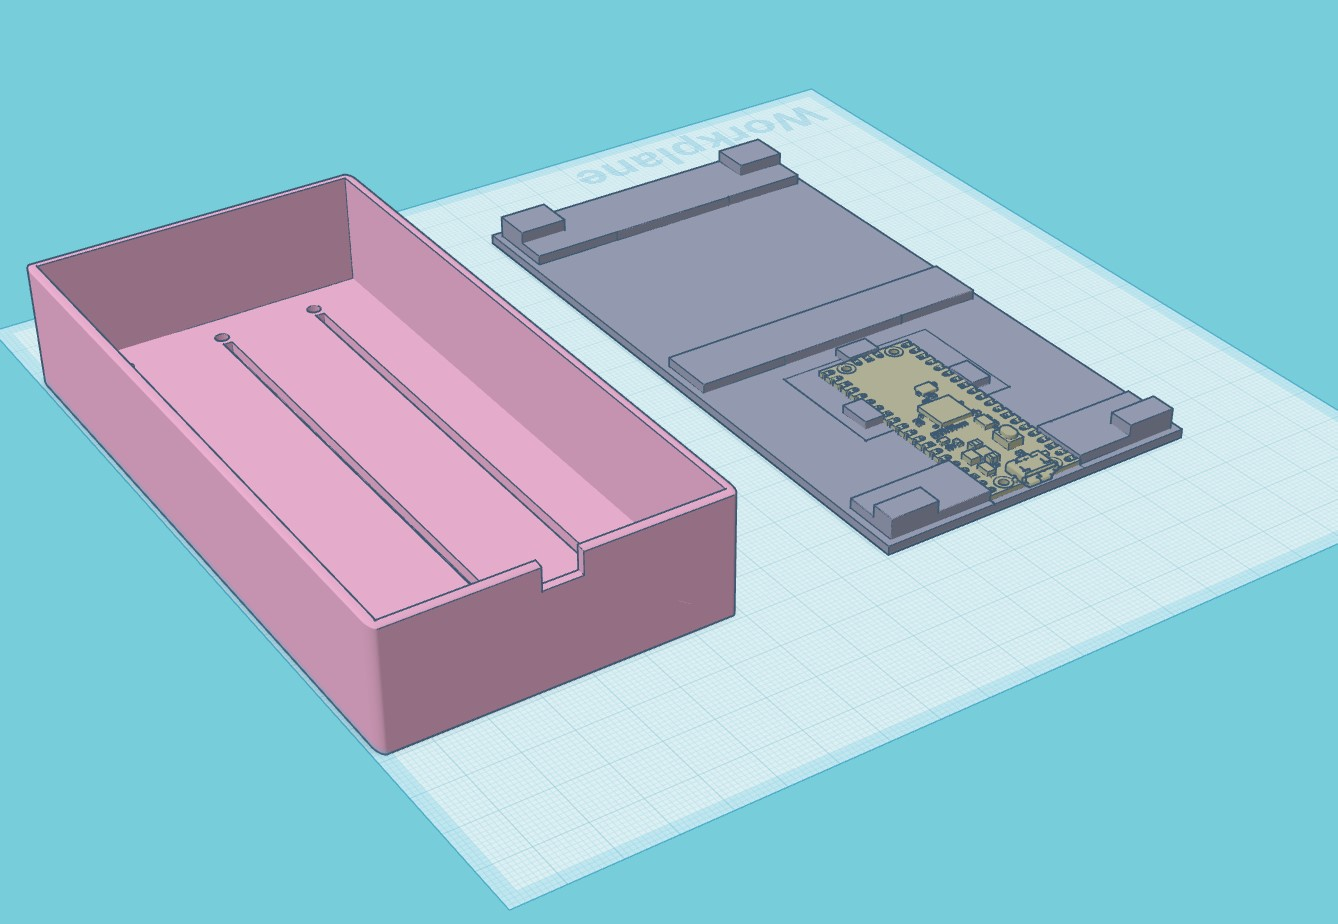
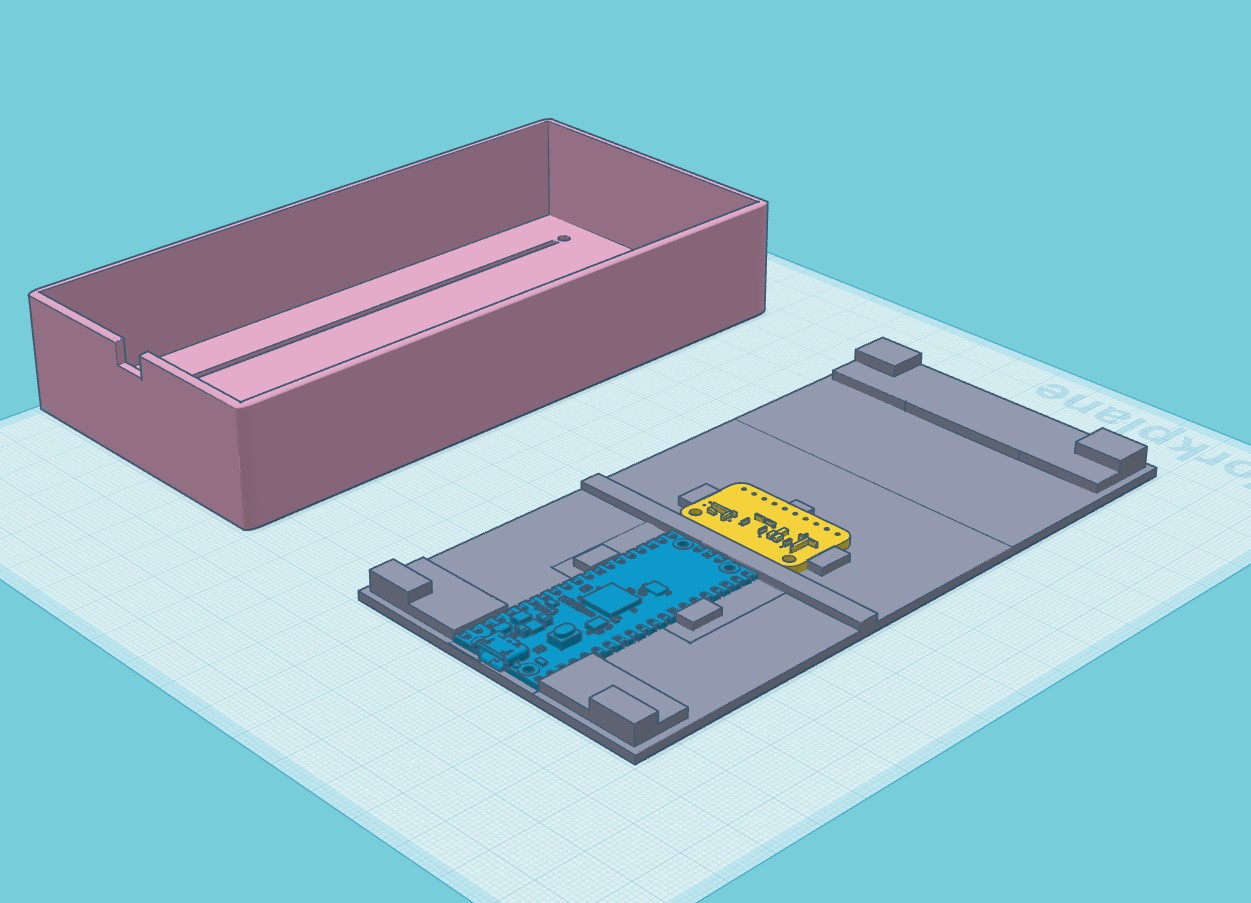
14-bit mode added

diff --git a/code.py b/code.py
@@ -1,56 +1,165 @@
-import board, analogio, usb_midi, adafruit_midi
+import board, analogio, usb_midi, adafruit_midi, busio 
 from time import sleep
-faders = [analogio.AnalogIn(board.A0),analogio.AnalogIn(board.A1),analogio.AnalogIn(board.A2)]
-
 from adafruit_midi.control_change import ControlChange
 
 sleep(1) # avoid a race condition on some systems
 
-## CONFIG SECTION
+def clamp(value, min_val, max_val):
+    return max(min(value, max_val), min_val)
+
+####################
+## CONFIG SECTION ##
+####################
 
 # Each fader can send messages on its own channel. Set them here.
 # (Remember, most DAWs count MIDI channels starting from 1. Here we start from 0.)
 faderMIDIchannels = [0, 0, 0]
-# Configure which CC number each fader should be assigned to
-faderCCnumbers = [14, 15, 33]
+# Configure which CC number each fader should be assigned to. Note: in 14-bit mode, every CC
+# uses the given number + 32 (as per the original MIDI spec, mostly ignored by manufacturers 
+# since it was written). So CC15 in 14-bit mode uses CCs 14 and 47. Spec compliant receivers 
+# should identify these message pairs as a 14-bit control, or at least let you configure the
+# mapping accordingly.
+faderCCnumbers = [14, 15, 30]
 # Selectively enable/disable faders (disabled faders will be ignored)
-faderEnabled = [0, 1, 0]
+faderEnabled = [True, False, False]
 # Set the number of ADC samples from which to get a smoothed value.
 # Greater values may reduce jitter.
-smoothingSamples = 44.0
+smoothingSamples = 24.0
 # Increasing may reduce jitter, but will also reduce responsiveness/accuracy
-newValueThreshold = 1
+newValueThreshold14bit = 5
+# Increasing may reduce jitter, but will also reduce responsiveness/accuracy
+newValueThreshold7bit = 1
+# When true, and if an ADS1115 board is found, CCs will be sent as 14bit MIDI pairs
+enable14bitmode = True
+# If true, and usb_cdc.disable() is commented out in boot.py, debug messages will be printed 
+# to serial monitor
+debugModeEnabled = True
 
-## CONFIG SECTION END
+########################
+## CONFIG SECTION END ##
+########################
 
-# Don't touch these
-midi = [adafruit_midi.MIDI(midi_out=usb_midi.ports[1], out_channel=faderMIDIchannels[0]),adafruit_midi.MIDI(midi_out=usb_midi.ports[1], out_channel=faderMIDIchannels[1]),adafruit_midi.MIDI(midi_out=usb_midi.ports[1], out_channel=faderMIDIchannels[2])]
+
+#######################
+## Don't touch these ##
+#######################
+i2cFound = False
+midi = [adafruit_midi.MIDI(midi_out=usb_midi.ports[1], out_channel=faderMIDIchannels[0]),\
+        adafruit_midi.MIDI(midi_out=usb_midi.ports[1], out_channel=faderMIDIchannels[1]),\
+        adafruit_midi.MIDI(midi_out=usb_midi.ports[1], out_channel=faderMIDIchannels[2])]
 faderPrevOutput = [0, 0, 0]
 faderADCValue = [0.0, 0.0, 0.0]
+global faders
+
+
+try:
+    if debugModeEnabled: print ("Checking I2C")
+    i2c = busio.I2C(board.GP17, board.GP16, frequency=1000000)
+    if debugModeEnabled: print ("Found I2C")
+    import adafruit_ads1x15.ads1115 as ADS
+
+    from adafruit_ads1x15.analog_in import AnalogIn
+    from adafruit_ads1x15.ads1x15 import Mode
+
+    ads = ADS.ADS1115(i2c)
+    ads.mode = Mode.CONTINUOUS
+    # Data rate must be one of: [8, 16, 32, 64, 128, 250, 475, 860]
+    # 250 seems like a good sample rate for avoiding stationary jitter
+    ads.data_rate = 250
+    ads.gain = 1
+    faders = [0, 0, 0]
+    if faderEnabled[0]:
+        faders[0] = AnalogIn(ads, ADS.P0)
+    if faderEnabled[1]:
+        faders[1] = AnalogIn(ads, ADS.P1)
+    if faderEnabled[2]:
+        faders[2] = AnalogIn(ads, ADS.P2)
+
+    i2cFound = True
+except Exception as e:
+    if debugModeEnabled: print ("Failed: ", e)
+    if debugModeEnabled: print ("Fader3 will run in 7-bit MIDI mode since no ADS1115 breakout \
+                                board was found.")
+    enable14bitmode = False
+    faders = [analogio.AnalogIn(board.A0),analogio.AnalogIn(board.A1),analogio.AnalogIn(board.A2)]
+
 
 while True:
 
     for f in range(0,3):
-        if faderEnabled[f] > 0:
+        if faderEnabled[f]:            
 
-            # Average n reads to reduce jitter
-            faderaverage = 0
-            for i in range(0, int(smoothingSamples)):
+            if i2cFound:
+                
+                # Average n reads to reduce jitter
+                faderaverage = 0
+                for i in range(0, int(smoothingSamples)):                    
+                    faderaverage += faders[f].value
 
-                faderaverage += faders[f].value
+                faderADCValue[f] = faderaverage / smoothingSamples
 
-            faderADCValue[f] = faderaverage / smoothingSamples
+                # The effective bit-depth of the ADS1115 is 15, since the 16th is used as 
+                # the sign byte. Plus we lose some resolution in the voltage range we're 
+                # measuring (I'm not 100% sure what it is). So this magic number of 25860 
+                # is the average maximum observed raw value. The min observed value is 
+                # anywhere between 0 and 200, depending on the velocity at which you zero 
+                # the fader...
 
-            # Convert to MIDI CC range 0-127
-            CCoutput = int(faderADCValue[f]/65535*127)
+                # scale observed range max to 14bit maxD
+                faderADCValue[f] = (int(faderADCValue[f]) * 16383) // 25868 
 
-            # If the new value is different to the old one by the threshold amount or greater,
-            # send a CC message.
-            if abs(CCoutput - faderPrevOutput[f]) >= newValueThreshold:
-                print (CCoutput)
-                faderPrevOutput[f] = CCoutput
-                midi[f].send(ControlChange(faderCCnumbers[f], CCoutput))
+                faderADCValue[f] = faderADCValue[f] & 0x3FFF # Mask to 14bit
 
+                # Just t o be safe, let's clamp the output to 14-bit MIDI range
+                faderADCValue[f] = clamp(faderADCValue[f], 0, 16383)
 
-    #sleep(0.02)
+                if enable14bitmode:
+                
+                    if abs(faderADCValue[f] - faderPrevOutput[f]) >= newValueThreshold14bit:    
+                        if debugModeEnabled: print ('Fader'+str(f) + ' 16bit: ' + str(faders[f].value) \
+                                                    + ' 14bit: ' + str(faderADCValue[f]))
+                        faderPrevOutput[f] = faderADCValue[f]
+                        ccUpper = faderADCValue[f] & 0x7f
+                        ccLower = (faderADCValue[f] >> 7) & 0x7f
+                    
+                        midi[f].send(ControlChange(faderCCnumbers[f]+32, ccUpper))
+                        midi[f].send(ControlChange(faderCCnumbers[f], ccLower))
 
+                else: # send 7-bit messages
+                    fader7bitvalue = faderADCValue[f] & 0x7f
+
+                    # Just to be safe, let's clamp the output to 7-bit MIDI range
+                    fader7bitvalue = clamp(fader7bitvalue, 0, 127)
+
+                    if abs(fader7bitvalue - faderPrevOutput[f]) >= newValueThreshold7bit:    
+                        faderPrevOutput[f] = fader7bitvalue
+                        if debugModeEnabled: print ('Fader' + str(f) + ' 7bit: ' +str(fader7bitvalue))
+
+                        midi[f].send(ControlChange(faderCCnumbers[f], fader7bitvalue))
+                        
+                    
+            else: # no external ADC found, so we'll use the Pico's onboard ADC
+
+                # Average n reads to reduce jitter
+                faderaverage = 0
+                for i in range(0, int(smoothingSamples)):
+                    # Zeroing the lower 4 bits mitigates noise in the upper part of Pico's ADC range.
+                    # 8bit resolution is adequate for our purposes.
+                    reading8bit = (faders[f].value >> 4) << 4
+                    faderaverage += reading8bit
+
+                faderADCValue[f] = faderaverage / smoothingSamples
+
+                # Convert to MIDI CC range 0-127 if using 7-bit
+                fader7bitvalue = int(faderADCValue[f]/65535 * 127)
+
+                # Just to be safe, let's clamp the output to 7-bit MIDI range
+                fader7bitvalue = clamp(fader7bitvalue, 0, 127)
+            
+                # If the new value is different to the old one by the threshold amount or greater,
+                # send a CC message.
+                if abs(fader7bitvalue - faderPrevOutput[f]) >= newValueThreshold7bit:
+                    faderPrevOutput[f] = fader7bitvalue
+                    midi[f].send(ControlChange(faderCCnumbers[f], fader7bitvalue))
+                        
+    #sleep(0.01)
